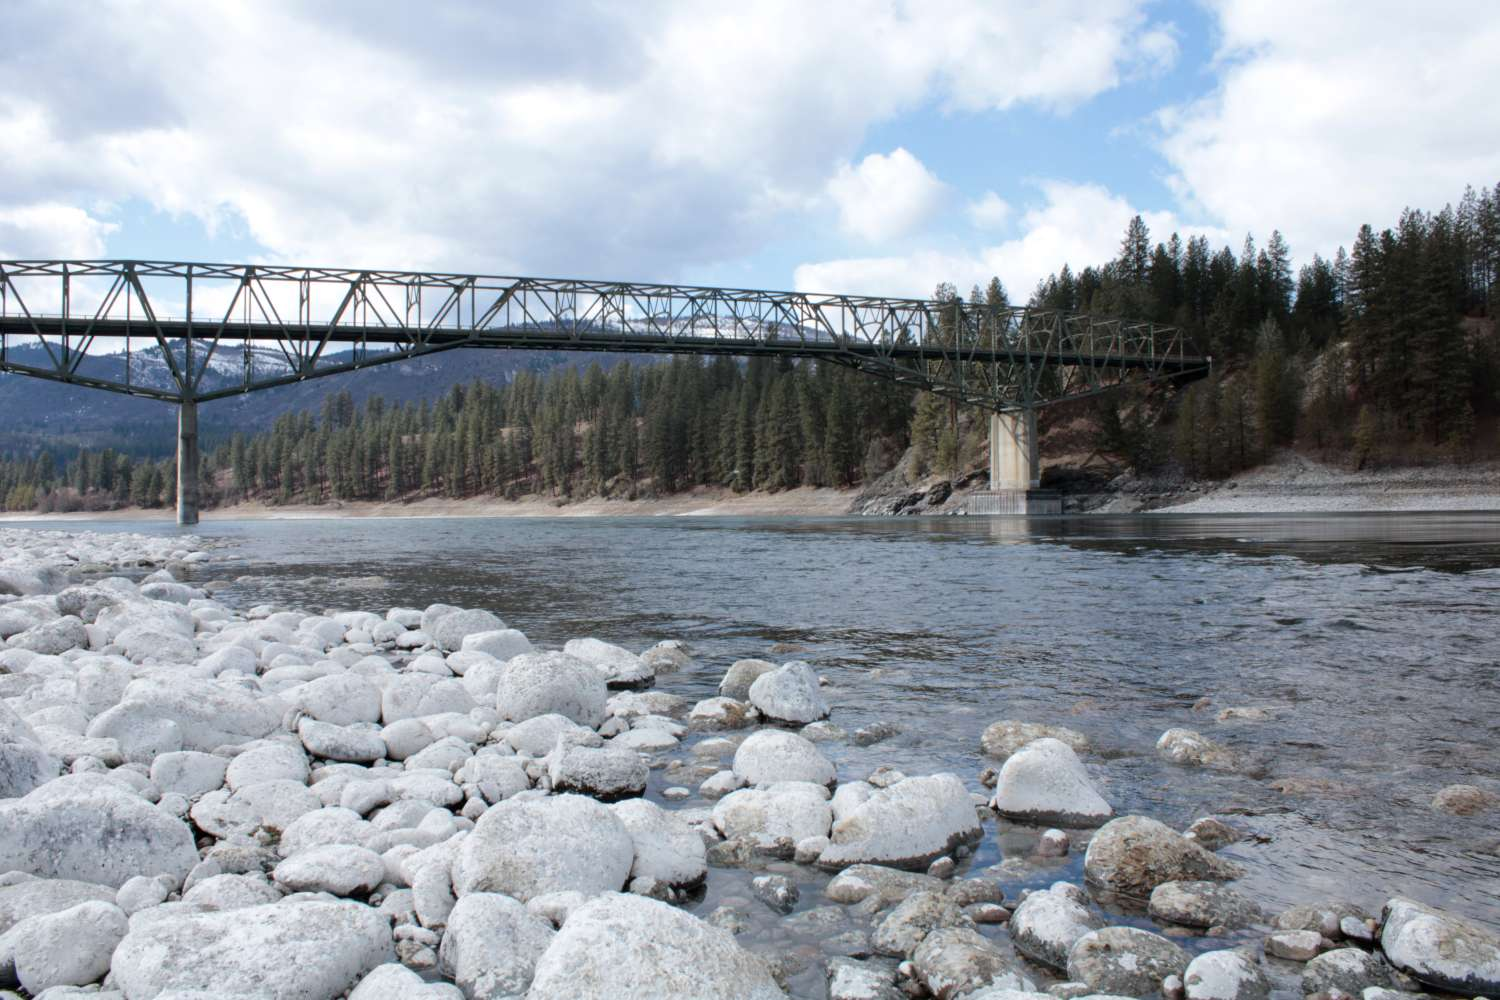
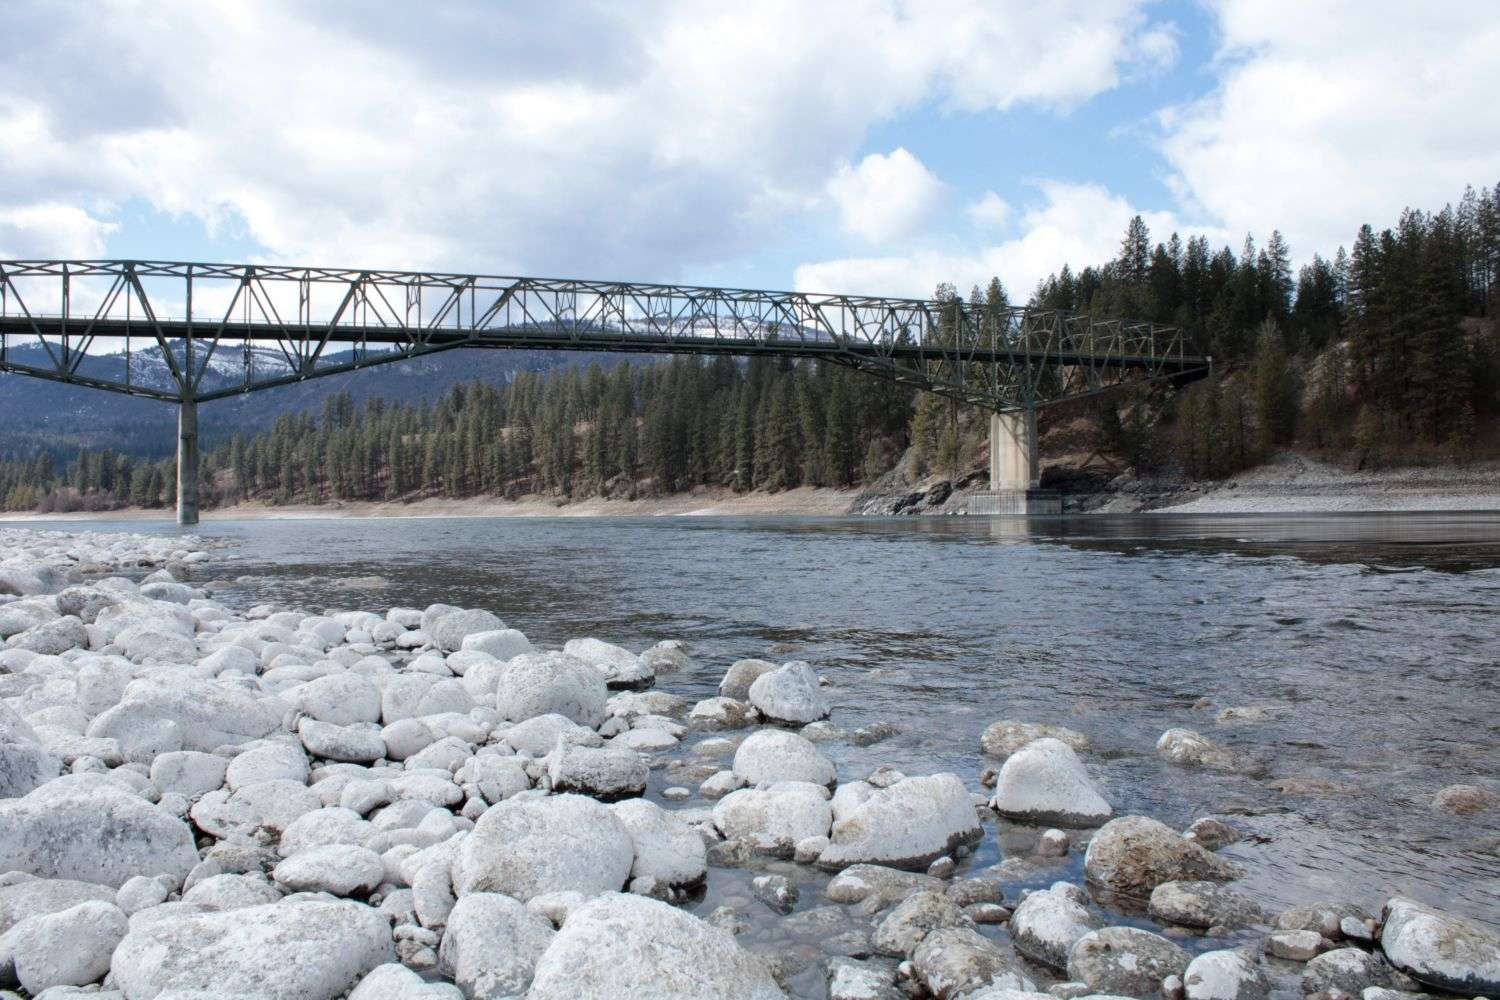
more image optimizations (homepage)

Changed region(s): [[0.828, 0.248, 0.8587, 0.279], [0.5827, 0.31, 0.6133, 0.341], [0.46, 0.279, 0.4907, 0.31]]

diff --git a/src/components/HomepageTitle/Images.js b/src/components/HomepageTitle/Images.js
@@ -5,11 +5,11 @@ const Images = [
 	// 	size: "contain",
 	// },
 	{
-		url: require("assets/images/homepage/current/_DSC1246.jpg"),
+		url: require("assets/images/homepage/current/_DSC1246-q80-c4.jpg"),
 		position: "50% 58%",
 	},
 	{
-		url: require("assets/images/homepage/current/_MG_1051-1500-1000-q50-c4.jpg"),
+		url: require("assets/images/homepage/current/_MG_1051-1024x683_q60_c4.jpg"),
 		position: "50% 45%",
 	},
 	{
@@ -17,7 +17,7 @@ const Images = [
 		position: "50% 60%",
 	},
 	{
-		url: require("assets/images/homepage/current/image-1-117-q80-c4.jpg"),
+		url: require("assets/images/homepage/current/image-1-117-q55-c4.jpg"),
 		position: "50% 40%",
 	},
 ];
@@ -32,19 +32,29 @@ want to use small + med + large images for progressive loading
 Goal: parabolic filesize differences.
 
 Current sizes:
-[0]: 130kb
-[1]: 8.48mb!!!
-[2]: 89.2kb
-[3]: 244kb
+[0]: 131kb
+[1]: 8686kb!!!
+[2]: 90kb
+[3]: 245kb
 
-So bring [1] down to ~220kb or so first. That will be the max size.
+9,152 kb total
 
-Then LARGE photos will be 89.2kb ~ 244kb
-So MEDIUM should be 9.44kb ~ 15.62kb ? 
-So SMALL should be 3.07kb ~ 3.95kb ? 
+New Sizes:
+[0]: 131kb
+[1]: 143kb
+[2]: 90kb
+[3]: 143kb
 
-Additionally provide alternate photos for mobile phones?
- - Crop them for portrait? Or probably not, just in case they switch to landscape.
+507 kb total!
+Still could reduce some smaller probably
+
+New Sizes:
+[0]: 60kb
+[1]: 85kb
+[2]: 90kb
+[3]: 88kb
+
+323 kb total! (over 28x smaller than original; 1.5x smaller than last set)
 
 
 
